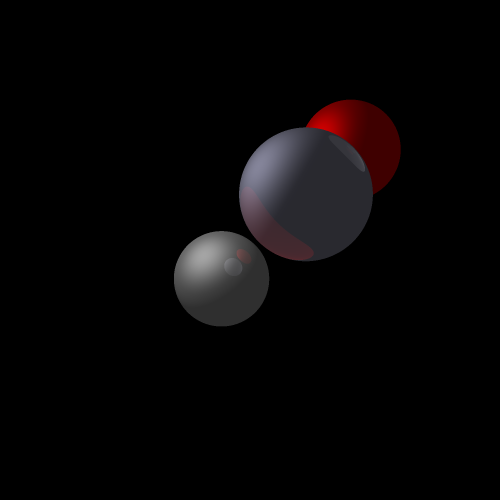
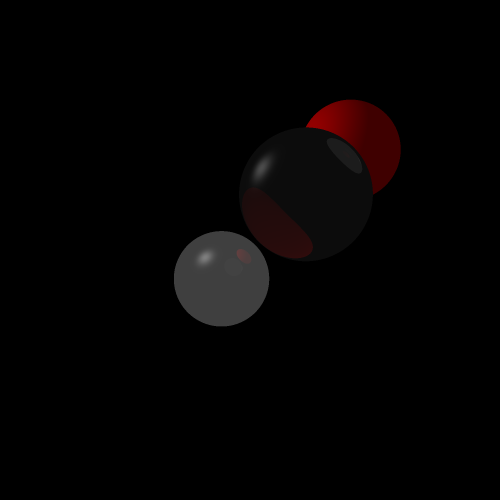
Karthik's incompetence

Changed region(s): [[0.33, 0.21, 0.75, 0.57]]

diff --git a/src/Tracer.java b/src/Tracer.java
@@ -6,11 +6,14 @@ import java.util.ArrayList;
 class Tracer {
     private ArrayList<Entity> entities;
     private ArrayList<Light> lights;
+
+    private Colour ambient;
     private Vector eye;
 
-    public Tracer(ArrayList<Entity> entities, ArrayList<Light> lights, Vector eye) {
+    public Tracer(ArrayList<Entity> entities, ArrayList<Light> lights, Colour ambient, Vector eye) {
         this.entities = entities;
         this.lights = lights;
+        this.ambient = ambient;
         this.eye = eye;
     }
 
@@ -27,16 +30,18 @@ class Tracer {
         Vector intersection = intersectingEntity.getIntersection(ray, timeOfIntersection);
         Vector normal = intersectingEntity.getNormal(intersection);
 
-        Colour colour = null;
+        Colour colour = Colour.multiply(ambient, intersectingEntity.getColour());
         for(Light light : lights) {
             if(depth==4) {
                 Vector shadow_vector = Vector.unit(Vector.subtract(light.getPosition(), intersection));
+                double t_light = Vector.norm(Vector.subtract(light.getPosition(), intersection));
                 Ray shadow_ray = new Ray(intersection, shadow_vector);
                 ArrayList<Entity> list_without_first_object = new ArrayList<Entity>(entities);
                 list_without_first_object.remove(intersectingEntity);
                 Entity obstruction = findIntersectingEntity(shadow_ray, list_without_first_object);
-                if (obstruction != null) {
-                    colour = Colour.add(colour, light.getAmbientColour(intersectingEntity));
+                double t_obstruction = findIntersectingTime(shadow_ray, list_without_first_object);
+                if (obstruction != null &&  t_obstruction < t_light) {
+                    continue;
                     //System.out.println("Shadow detected");
                 }
             }
@@ -86,5 +91,19 @@ class Tracer {
         }
 
         return intersectingEntity;
+    }
+    private double findIntersectingTime(Ray ray, ArrayList<Entity> entities) {
+        Entity intersectingEntity = null;
+        double minTimeIntersection = Double.MAX_VALUE;
+
+        for (Entity entity : entities) {
+            double timeOfIntersection = entity.getTimeIntersection(ray);
+            if (timeOfIntersection > 0.0 && timeOfIntersection < minTimeIntersection) {
+                intersectingEntity = entity;
+                minTimeIntersection = timeOfIntersection;
+            }
+        }
+
+        return minTimeIntersection;
     }
 }

diff --git a/src/View.java b/src/View.java
@@ -22,6 +22,7 @@ class View {
 
     private ArrayList<Entity> entities;
     private ArrayList<Light> lights;
+    private Colour ambient;
 
     View(String configFileName) throws FileNotFoundException {
         String jsonConfig = new Scanner(new File(configFileName)).useDelimiter("\\Z").next();
@@ -58,6 +59,8 @@ class View {
             }
         }
 
+        this.ambient = new Colour(root.getJSONObject("ambient"), "col");
+
         this.lights = new ArrayList<>();
         JSONArray lights = root.getJSONArray("lights");
         for (int i = 0; i < lights.length(); i++) {
@@ -83,7 +86,7 @@ class View {
                 rayDir = Vector.unit(Vector.subtract(rayDir, eye));
                 Ray ray = new Ray(eye, rayDir);
 
-                Tracer tracer = new Tracer(entities, lights, eye);
+                Tracer tracer = new Tracer(entities, lights, ambient, eye);
                 Colour colour = tracer.trace(ray, 4);
 
                 if (colour == null)

diff --git a/src/Light.java b/src/Light.java
@@ -13,11 +13,11 @@ class Light {
     }
 
     Colour getColour(Entity entity, Vector intersection, Vector normal, Vector eye) {
-        Colour ambientColour = getAmbientColour(entity);
+        //Colour ambientColour = getAmbientColour(entity);
         Colour diffuseColour = getDiffuseColour(entity, intersection, normal);
         Colour specularColour = getSpecularColour(entity, intersection, normal, eye);
         //return Colour.add(diffuseColour, ambientColour);
-        return Colour.add(ambientColour, Colour.add(diffuseColour, specularColour));
+        return Colour.add(diffuseColour, specularColour);
     }
 
     Colour getAmbientColour(Entity entity) {

diff --git a/src/Polygon.java b/src/Polygon.java
@@ -146,7 +146,7 @@ public class Polygon implements Entity{
         Vector origin = ray.getOrigin();
         Vector direction = ray.getDirection();
         double D = - (Vector.dot(normal, vertexlist[0]));
-        if(Vector.dot(normal, direction) < 0.01)
+        if(Math.abs(Vector.dot(normal, direction)) < 0.01)
             return 0;
         double t = - ((Vector.dot(normal, origin) + D)/(Vector.dot(normal, direction)));
         final double EPSILON = 0.01;

diff --git a/src/Plane.java b/src/Plane.java
@@ -72,7 +72,8 @@ public class Plane implements Entity {
         Vector origin = ray.getOrigin();
         Vector direction = ray.getDirection();
         double D = - (Vector.dot(normal, point));
-
+        if(Math.abs(Vector.dot(normal, direction)) < 0.01)
+            return 0;
         double t = - ((Vector.dot(normal, origin) + D)/(Vector.dot(normal, direction)));
         final double EPSILON = 0.01;
         if (t<EPSILON)
